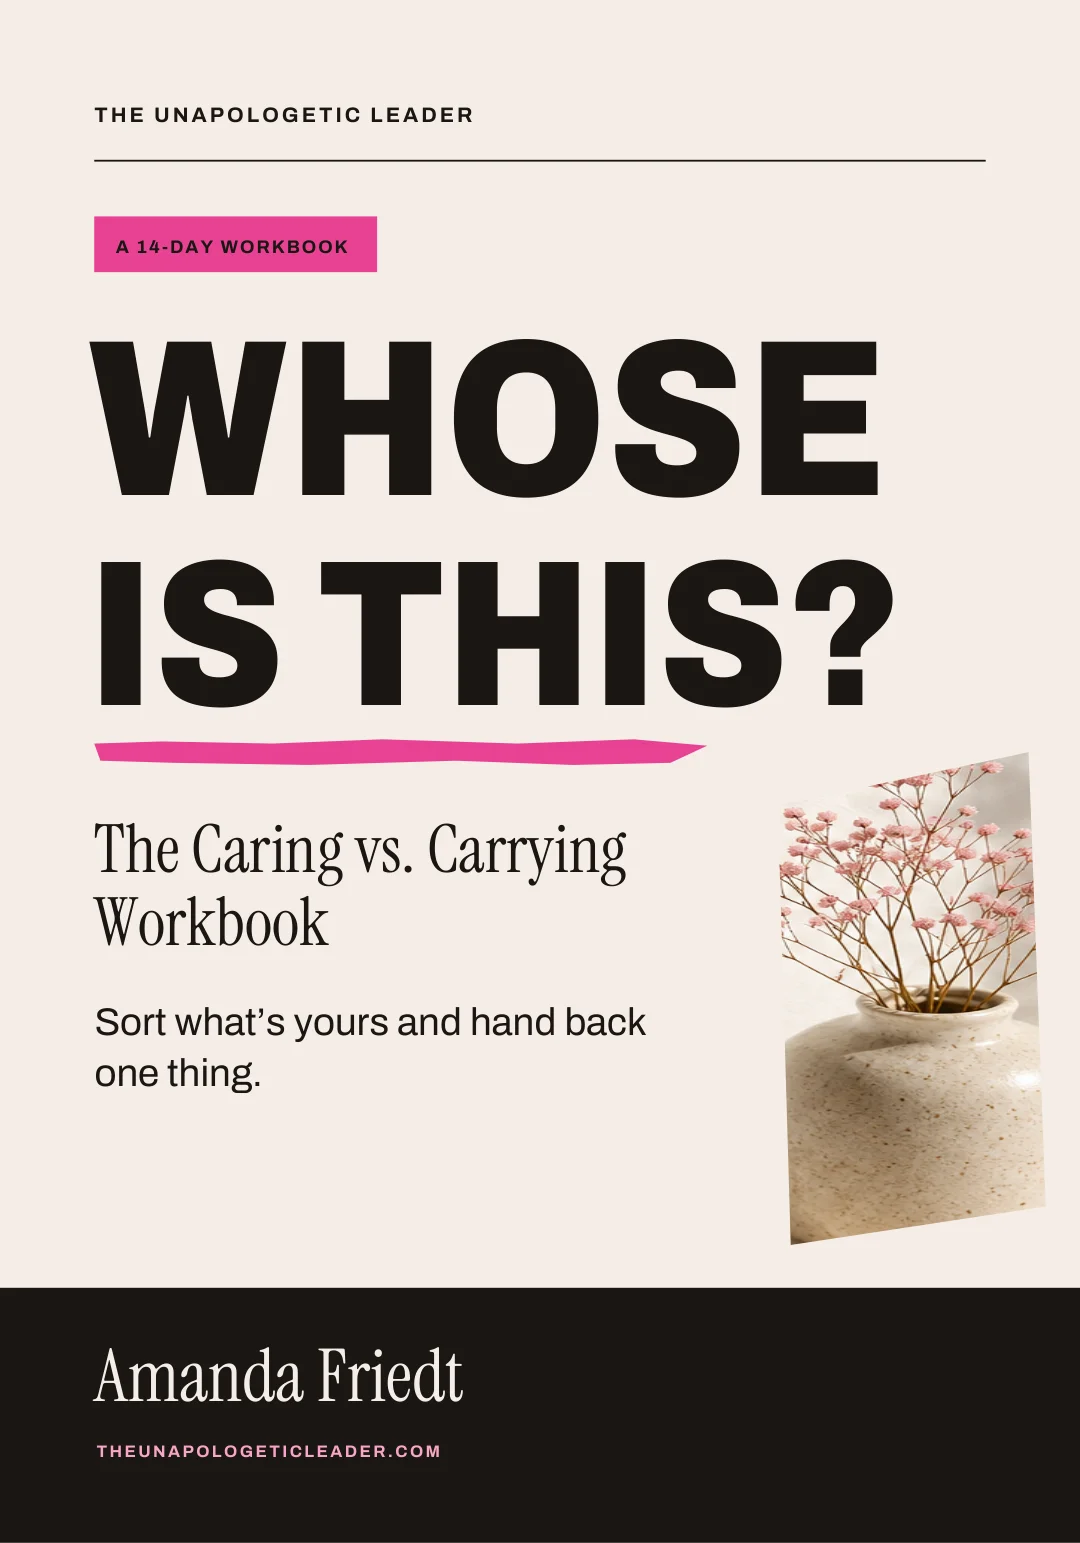
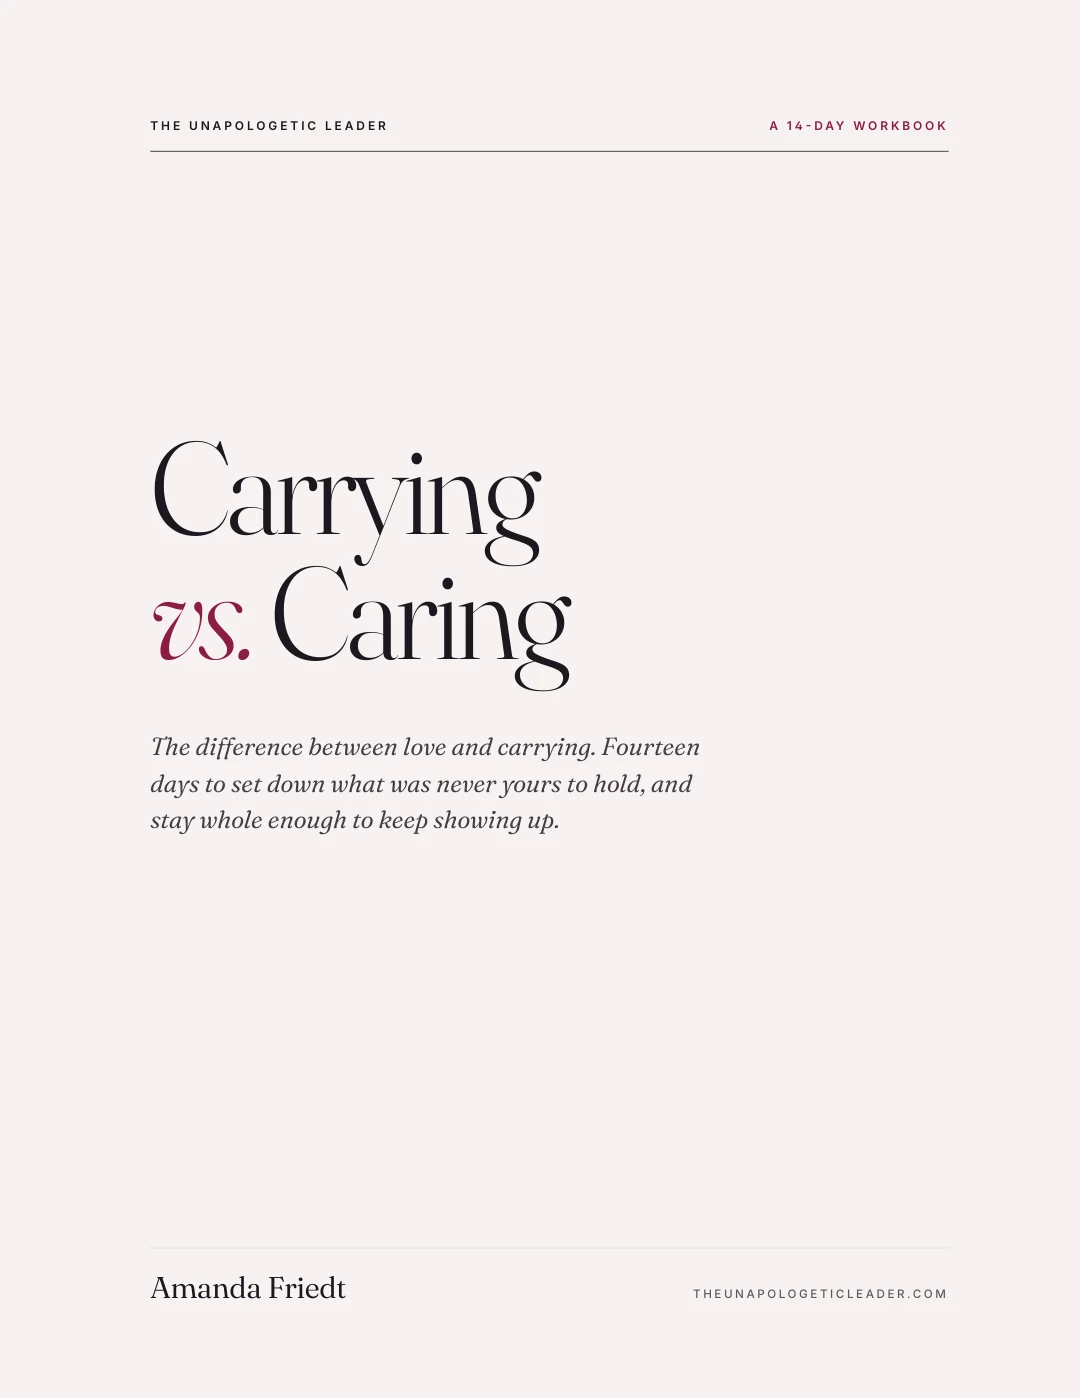
Client-safe proof pages and workbook rename
Field Note 001: revenue chart removed, results stated without revenue figures, product brands and customer/review counts dropped.
Sample Report: revenue, sales and ROAS figures removed.
Growth Teardown: client name removed from the awards line.
Whose Is This?: v3 Carrying vs. Caring cover, name order fixed in titles and alt text.

diff --git a/confidence-engineering/field-note-001-engineering-understanding.html b/confidence-engineering/field-note-001-engineering-understanding.html
@@ -244,7 +244,7 @@ footer.site{max-width:760px;margin:0 auto;padding:30px 24px 70px;border-top:2px 
 <p>The research layer kept paying for itself here. One find from the keyword-cluster intelligence: the catalog exposed <strong>three different measurement systems</strong> (actual glass size, cut-out dimensions, outside frame dimensions) but the public pages made shoppers do the translation between them. One cut-out URL was listing glass-size products. The catalog knew the answer. The surface made the buyer do math at the exact moment of maximum anxiety. And the share-of-voice map showed the field was carved up by entity: a marketplace owned broad, a big-box owned generic, the OEM owned its own name, a decorative specialist owned style. The open lane was fitment precision, the one lane the incumbents cannot structurally serve.</p>
 <p><strong>Execute against the layer, not the symptom.</strong> The receipts:</p>
 <ul>
-<li>A title that read "Universal Replacement Frame" became "22x36 Door Glass Frame, Frame ONLY, Fits Therma-Tru &amp; Masonite." Same product. One is noise, the other is a row of facts a machine can check.</li>
+<li>A title that read "Universal Replacement Frame" became "22x36 Door Glass Frame, Frame ONLY, Fits [Brand] &amp; [Brand]." Same product. One is noise, the other is a row of facts a machine can check.</li>
 <li>The word "universal" was banned from the catalog entirely, titles through schema. A claim a machine cannot verify is a claim it will not repeat. My validation research against live Google commerce systems backed the ban: subjective terms like "premium" and "universal" carry zero search volume, and promotional language in titles triggers disapprovals, not just suppression.</li>
 <li>Feed titles were treated as their own surface. The same validation work confirmed what top advertisers already practice: the large majority run feed titles distinct from page titles, front-loading the qualifying attributes into the characters that decide the match.</li>
 <li>Every glass product got a WHAT'S INCLUDED / NOT INCLUDED block, above the fold and in structured data. It cut return-driving ambiguity and handed the machines a parseable, defensible claim in one move.</li>
@@ -296,7 +296,6 @@ footer.site{max-width:760px;margin:0 auto;padding:30px 24px 70px;border-top:2px 
 <p>I want to be careful about what I am claiming. Ninety days, one brand, one category. But the discipline is what I did not do: no link buying, no volume publishing, no rewriting of pages that were already winning. When the loop says stop, you stop.</p>
 <h2 id="the-test-i-graded-in-public-including-the-miss">The test I graded in public, including the miss</h2>
 <p>On May 15 I picked a deliberately hostile sample: from a 318-product cohort with zero lifetime search clicks, the 25 worst titles and the 25 highest-priced products. Rebuilt their names, titles, metas, and descriptions against the rule system. Graded at day 24.</p>
-<figure><svg role="img" aria-label="Day-24 revenue change by template pattern, including the sweeps split caused by duplicate URLs" xmlns="http://www.w3.org/2000/svg" viewBox="0 0 1600 1000"><rect width="1600" height="1000" fill="#F6F4F2"/><line x1="0" y1="2" x2="1600" y2="2" stroke="#0B0B0E" stroke-width="4"/><rect x="84" y="87" width="40" height="3" fill="#0B0B0E"/><text x="140" y="96" font-family="'SF Mono','Menlo','Consolas',monospace" font-size="20" fill="#6E6E76" letter-spacing="4">THE 50-PRODUCT TEST · GRADED DAY 24</text><text x="84" y="176" font-family="Helvetica,Arial,sans-serif" font-size="54" font-weight="800" fill="#0B0B0E" letter-spacing="-2">Revenue change by template pattern</text><text x="84" y="222" font-family="Helvetica,Arial,sans-serif" font-size="26" fill="#4A4A52">Hostile sample: 25 worst titles + 25 highest-price products from a 318-product zero-click cohort.</text><line x1="84" y1="556" x2="1516" y2="556" stroke="#E2DEDA" stroke-width="1.5"/><text x="72" y="548" font-family="'SF Mono','Menlo','Consolas',monospace" font-size="17" fill="#8E8E96">+100%</text><line x1="84" y1="451" x2="1516" y2="451" stroke="#E2DEDA" stroke-width="1.5"/><text x="72" y="443" font-family="'SF Mono','Menlo','Consolas',monospace" font-size="17" fill="#8E8E96">+200%</text><line x1="84" y1="347" x2="1516" y2="347" stroke="#E2DEDA" stroke-width="1.5"/><text x="72" y="339" font-family="'SF Mono','Menlo','Consolas',monospace" font-size="17" fill="#8E8E96">+300%</text><rect x="154" y="571" width="64" height="89" fill="#C9277A" rx="3"/><text x="186" y="555" font-family="Helvetica,Arial,sans-serif" font-size="30" font-weight="800" fill="#0B0B0E" text-anchor="middle">+85%</text><text x="186" y="842" font-family="'SF Mono','Menlo','Consolas',monospace" font-size="17" fill="#6E6E76" text-anchor="middle" letter-spacing="1">FRAMES</text><rect x="359" y="300" width="64" height="360" fill="#C9277A" rx="3"/><text x="391" y="284" font-family="Helvetica,Arial,sans-serif" font-size="30" font-weight="800" fill="#0B0B0E" text-anchor="middle">+345%</text><text x="391" y="842" font-family="'SF Mono','Menlo','Consolas',monospace" font-size="17" fill="#6E6E76" text-anchor="middle" letter-spacing="1">BLINDS</text><rect x="563" y="338" width="64" height="322" fill="#C9277A" rx="3"/><text x="595" y="322" font-family="Helvetica,Arial,sans-serif" font-size="30" font-weight="800" fill="#0B0B0E" text-anchor="middle">+309%</text><text x="595" y="842" font-family="'SF Mono','Menlo','Consolas',monospace" font-size="17" fill="#6E6E76" text-anchor="middle" letter-spacing="1">DECORATIVE</text><rect x="768" y="485" width="64" height="175" fill="#C9277A" rx="3"/><text x="800" y="469" font-family="Helvetica,Arial,sans-serif" font-size="30" font-weight="800" fill="#0B0B0E" text-anchor="middle">+168%</text><text x="800" y="842" font-family="'SF Mono','Menlo','Consolas',monospace" font-size="17" fill="#6E6E76" text-anchor="middle" letter-spacing="1">SWEEP A</text><rect x="973" y="554" width="64" height="106" fill="#C9277A" rx="3"/><text x="1005" y="538" font-family="Helvetica,Arial,sans-serif" font-size="30" font-weight="800" fill="#0B0B0E" text-anchor="middle">+102%</text><text x="1005" y="842" font-family="'SF Mono','Menlo','Consolas',monospace" font-size="17" fill="#6E6E76" text-anchor="middle" letter-spacing="1">SWEEP B</text><rect x="1177" y="660" width="64" height="72" fill="#8E8E96" rx="3"/><text x="1209" y="766" font-family="Helvetica,Arial,sans-serif" font-size="30" font-weight="800" fill="#6E6E76" text-anchor="middle">-54%</text><text x="1209" y="842" font-family="'SF Mono','Menlo','Consolas',monospace" font-size="17" fill="#6E6E76" text-anchor="middle" letter-spacing="1">SWEEP C</text><rect x="1382" y="660" width="64" height="60" fill="#8E8E96" rx="3"/><text x="1414" y="754" font-family="Helvetica,Arial,sans-serif" font-size="30" font-weight="800" fill="#6E6E76" text-anchor="middle">-45%</text><text x="1414" y="842" font-family="'SF Mono','Menlo','Consolas',monospace" font-size="17" fill="#6E6E76" text-anchor="middle" letter-spacing="1">SWEEP D</text><line x1="84" y1="660" x2="1516" y2="660" stroke="#0B0B0E" stroke-width="3"/><text x="84" y="690" font-family="'SF Mono','Menlo','Consolas',monospace" font-size="17" fill="#8E8E96">0%</text><line x1="716" y1="268" x2="1498" y2="268" stroke="#6E6E76" stroke-width="2"/><text x="1107" y="256" font-family="'SF Mono','Menlo','Consolas',monospace" font-size="17" fill="#6E6E76" text-anchor="middle" letter-spacing="2">THE SPLIT: SAME COPY, DIFFERENT URLS</text><line x1="84" y1="896" x2="1516" y2="896" stroke="#E2DEDA" stroke-width="2"/><text x="84" y="948" font-family="Helvetica,Arial,sans-serif" font-size="26" font-weight="800" fill="#0B0B0E" letter-spacing="-0.5">FRDT<tspan fill="#C9277A">LAB</tspan></text><text x="1516" y="948" font-family="'SF Mono','Menlo','Consolas',monospace" font-size="18" fill="#8E8E96" text-anchor="end">day-24 grades · the sweeps fix was consolidating URLs, not rewriting words</text></svg></figure>
 <table>
 <thead>
 <tr>
@@ -308,22 +307,22 @@ footer.site{max-width:760px;margin:0 auto;padding:30px 24px 70px;border-top:2px 
 <tbody>
 <tr>
 <td>Size-first frames</td>
-<td>retitled pages +120% to +345%</td>
+<td>Retitled pages up</td>
 <td><strong>Scale</strong></td>
 </tr>
 <tr>
 <td>Blinds</td>
-<td>+345%</td>
+<td>Up</td>
 <td><strong>Scale</strong></td>
 </tr>
 <tr>
 <td>Decorative glass</td>
-<td>+309%, one pilot category from zero to its first sales</td>
+<td>Up, one pilot category from zero to its first sales</td>
 <td><strong>Scale</strong></td>
 </tr>
 <tr>
 <td>Sweeps</td>
-<td>split: +168% and +102% against -54% and -45%</td>
+<td>Split: two products up, two down</td>
 <td><strong>Investigate first</strong></td>
 </tr>
 </tbody>
@@ -342,7 +341,7 @@ footer.site{max-width:760px;margin:0 auto;padding:30px 24px 70px;border-top:2px 
 <li><strong>A human runs:</strong> the decision gate. Anything carrying margin or fitment risk waits for a go / no-go at a weekly standup. Nothing risky ships on model confidence alone.</li>
 </ul>
 <p>The throughput comes from the lanes. The trust comes from the gate. Agents without an objective function generate infinitely and drift. Agents pointed at a measurable visibility target, with a human holding go and no-go, compound.</p>
-<p>And because the strategy lives in rules instead of in my hands, it scaled past the fix. The same system has now generated the brand's full replacement storefront, staged and pre-launch as I write this: 1,820 products migrated and retitled by the rules, 52 collections that assemble themselves from product data, 28 buying guides, a content system where correcting a fact once re-renders every page that uses it, 1,763 redirects mapped on paper before anyone touches DNS, 30,338 customers staged, 3,585 legacy reviews at a 4.93 average surfaced and packaged for structured data.</p>
+<p>And because the strategy lives in rules instead of in my hands, it scaled past the fix. The same system has now generated the brand's full replacement storefront, staged and pre-launch as I write this: 1,820 products migrated and retitled by the rules, 52 collections that assemble themselves from product data, 28 buying guides, a content system where correcting a fact once re-renders every page that uses it, 1,763 redirects mapped on paper before anyone touches DNS, customer records staged, and legacy reviews surfaced and packaged for structured data.</p>
 <p>The clock, one more time, because the clock is the part a deck cannot fake:</p>
 <table>
 <thead>

diff --git a/whose-is-this.html b/whose-is-this.html
@@ -6,8 +6,8 @@
   <title>Whose Is This? | 14-Day Workload Reflection Workbook · FRDTLAB</title>
   <meta name="description" content="A 14-day workload reflection workbook by Amanda Friedt. Sort what’s yours, practice a boundary, and plan one clear handoff.">
   <link rel="canonical" href="https://frdtlab.com/whose-is-this.html">
-  <meta property="og:title" content="Whose Is This? The Caring vs. Carrying Workbook">
-  <meta property="og:image" content="https://frdtlab.com/img/whose-is-this-cover.webp">
+  <meta property="og:title" content="Whose Is This? The Carrying vs. Caring Workbook">
+  <meta property="og:image" content="https://frdtlab.com/img/whose-is-this-cover.webp?v=3">
   <link rel="icon" href="/favicon.svg" type="image/svg+xml">
   <style>
     * { box-sizing: border-box; }
@@ -50,7 +50,7 @@
     <a class="buy" href="https://buy.stripe.com/bJebJ17U39uT4g273D1Nu03">Get the workbook · $24</a>
     <p><small>One-time payment. The workbook is sent separately to the email address you enter at checkout.</small></p>
     </div>
-    <figure class="src-photo frame is-cover tag-below"><img src="/img/whose-is-this-cover.webp" width="1080" height="1543" alt="Cover of Whose Is This? The Caring vs. Carrying Workbook by Amanda Friedt" fetchpriority="high" decoding="async"><span class="src-tag" data-src-added>Workbook cover</span></figure>
+    <figure class="src-photo frame is-cover tag-below"><img src="/img/whose-is-this-cover.webp?v=3" width="1080" height="1398" alt="Cover of Carrying vs. Caring, a 14-day workbook from The Unapologetic Leader by Amanda Friedt" fetchpriority="high" decoding="async"><span class="src-tag" data-src-added>Workbook cover</span></figure>
     </div></div>
     <section aria-labelledby="quick-check">
       <h2 id="quick-check">Who owns the outcome?</h2>
@@ -61,7 +61,7 @@
     <section id="worksheet" aria-labelledby="preview">
       <h2 id="preview">Look inside</h2>
       <div class="preview">
-        <figure><a href="/img/whose-is-this-cover.webp"><img src="/img/whose-is-this-cover.webp" alt="Cover of Whose Is This? The Caring vs. Carrying Workbook by Amanda Friedt" loading="lazy"></a><figcaption>Workbook cover</figcaption></figure>
+        <figure><a href="/img/whose-is-this-cover.webp?v=3"><img src="/img/whose-is-this-cover.webp?v=3" alt="Cover of Carrying vs. Caring, a 14-day workbook from The Unapologetic Leader by Amanda Friedt" loading="lazy"></a><figcaption>Workbook cover</figcaption></figure>
         <figure><a href="/img/whose-is-this-sample.webp"><img src="/img/whose-is-this-sample.webp" alt="Five-minute worksheet with prompts to name the work, find the owner, and decide what to offer" loading="lazy"></a><figcaption>Open the five-minute worksheet</figcaption></figure>
       </div>
       <p>Try it now. Name one task you keep catching before it drops. Include the reminding and checking. Then ask who agreed to own the outcome.</p>

diff --git a/sample-report.html b/sample-report.html
@@ -252,19 +252,19 @@
     <div class="lanes">
       <div class="lane">
         <div class="lh"><h3>Web revenue</h3><span class="grade g-a">Ramping</span></div>
-        <div class="metric">Revenue +9% on 11% fewer visitors</div>
-        <p class="why">Conversion rate up 18% as low-quality traffic faded. The store platform is the system of record, not analytics.</p>
+        <div class="metric">Conversion rate up 18% on 11% fewer visitors</div>
+        <p class="why">Low-quality traffic faded. The store platform is the system of record, not analytics.</p>
         <p class="next"><b>Next:</b> Automate the monthly store export so this stops being a screenshot.</p>
       </div>
       <div class="lane">
         <div class="lh"><h3>Marketplace</h3><span class="grade g-a">Ramping</span></div>
-        <div class="metric">Sales +21% month over month, no ad spend</div>
+        <div class="metric">Listing fixes live, no ad spend</div>
         <p class="why">Listing fixes went live mid-month. Returns on the first fixed listing fell by three quarters.</p>
         <p class="next"><b>Next:</b> Run the same fitment fix across the highest-volume kits.</p>
       </div>
       <div class="lane">
         <div class="lh"><h3>Paid search</h3><span class="grade g-c">Warming up</span></div>
-        <div class="metric">Return on ad spend down 8%, by design</div>
+        <div class="metric">Return on ad spend dipping, by design</div>
         <p class="why">Two new campaigns are in their learning period. Seasonal campaigns are carrying the account.</p>
         <p class="next"><b>Next:</b> Review the new campaigns mid-month. Audit which conversions count as purchases.</p>
       </div>
@@ -294,7 +294,7 @@
       </div>
       <div class="lane">
         <div class="lh"><h3>Measurement</h3><span class="grade g-d">Needs a jump</span></div>
-        <div class="metric">Analytics sees about 45% of real revenue</div>
+        <div class="metric">Analytics sees under half of real revenue</div>
         <p class="why">Unchanged from last month. Bidding is steering on less than half of reality.</p>
         <p class="next"><b>Next:</b> Purchase-tag wiring audit before the platform migration.</p>
       </div>

diff --git a/growth-teardown/index.html b/growth-teardown/index.html
@@ -104,7 +104,7 @@ section{padding-block:clamp(3rem,6vw,5.35rem)}.light{background:var(--paper);col
 <li><span class="node" aria-hidden="true">03</span><div><b>After · Get your three-fix plan</b><p>Get the priorities in writing, with one way to check progress on each.</p></div></li>
 </ol>
 <p class="scope">One area, not a full-site audit. Implementation is not included.</p></div>
-<div class="proof"><p class="eyebrow">Who runs it</p><figure class="src-photo frame"><img src="/img/headshot.jpg" width="600" height="600" alt="Amanda Friedt, founder of FRDTLAB" loading="lazy" decoding="async"><span class="src-tag" data-src-added>Amanda Friedt · FRDT Lab</span></figure><h3>Amanda Friedt, FRDT Lab</h3><p>Amanda works across ecommerce, search, paid media, and the systems that connect them. She brought her AI-powered marketing systems work to Hero Conf San Diego; FRDT Lab’s work with DIY Door Store is listed by the 2026 US Search Awards.</p>
+<div class="proof"><p class="eyebrow">Who runs it</p><figure class="src-photo frame"><img src="/img/headshot.jpg" width="600" height="600" alt="Amanda Friedt, founder of FRDTLAB" loading="lazy" decoding="async"><span class="src-tag" data-src-added>Amanda Friedt · FRDT Lab</span></figure><h3>Amanda Friedt, FRDT Lab</h3><p>Amanda works across ecommerce, search, paid media, and the systems that connect them. She brought her AI-powered marketing systems work to Hero Conf San Diego; FRDT Lab’s client work is listed by the 2026 US Search Awards.</p>
 <a href="https://brightonseo.com/events/san-diego-2026/talks/the-aipowered-marketing-machine-integrated-search-for-the-infrastructure-era">Hero Conf session</a><a href="https://ussearchawards.com/2026-winners/">US Search Awards</a>
 </div></div></section>
 <section class="walkthrough" aria-labelledby="trace-title"><div class="shell">

diff --git a/shop.html b/shop.html
@@ -513,7 +513,7 @@ footer{background:var(--black);border-top:1px solid var(--line);padding:80px 0 4
     <div class="shop-acts"><a class="btn btn-primary" href="https://buy.stripe.com/5kQ28r1vF8qPbIubjT1Nu05">Get it, $9</a></div>
   </article>
   <article class="shop-row">
-    <a class="shop-media is-tall" href="/whose-is-this.html"><img src="/img/whose-is-this-cover.webp" alt="Cover of Whose Is This? The Caring vs. Carrying Workbook by Amanda Friedt" loading="lazy" width="1080" height="1543"></a>
+    <a class="shop-media is-tall" href="/whose-is-this.html"><img src="/img/whose-is-this-cover.webp?v=3" alt="Cover of Carrying vs. Caring, a 14-day workbook from The Unapologetic Leader by Amanda Friedt" loading="lazy" width="1080" height="1398"></a>
     <div class="shop-body">
       <div class="shop-kick">The Unapologetic Leader · Digital workbook</div>
       <h3>Whose Is This?</h3>
